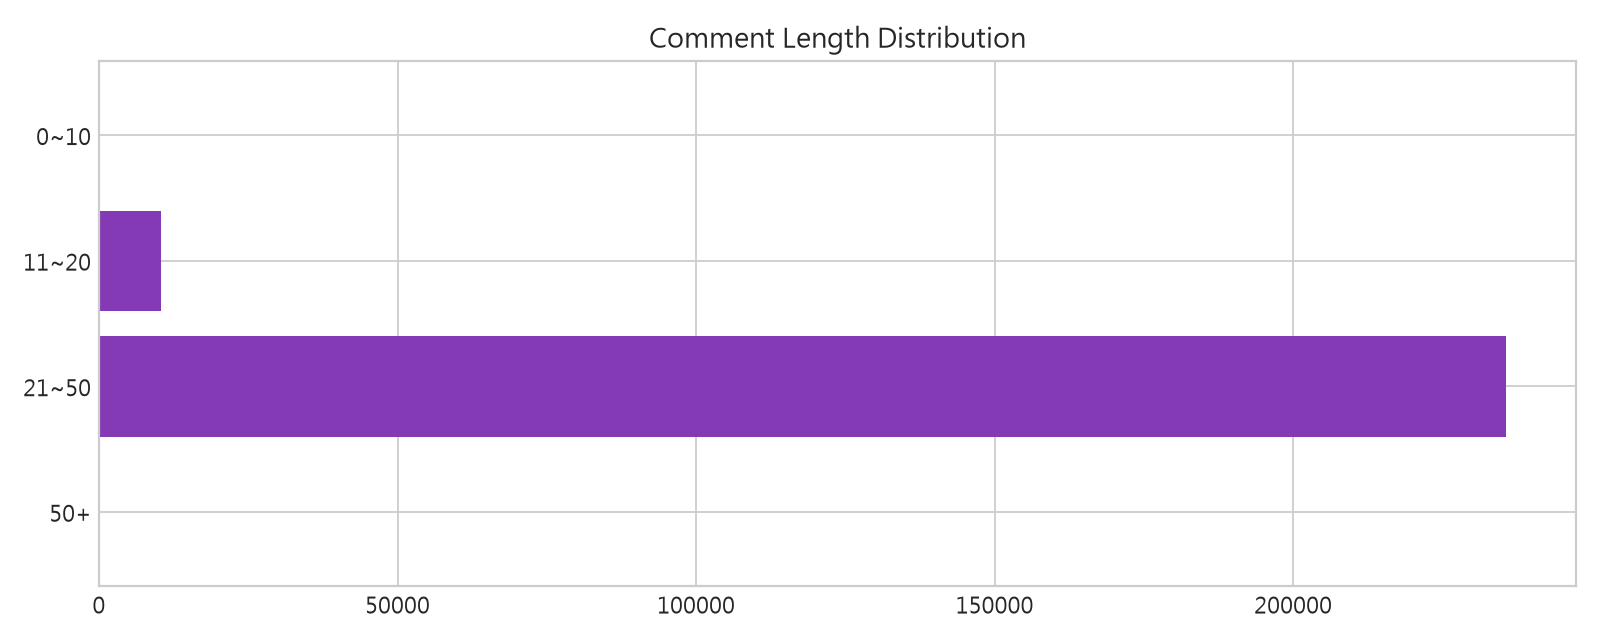
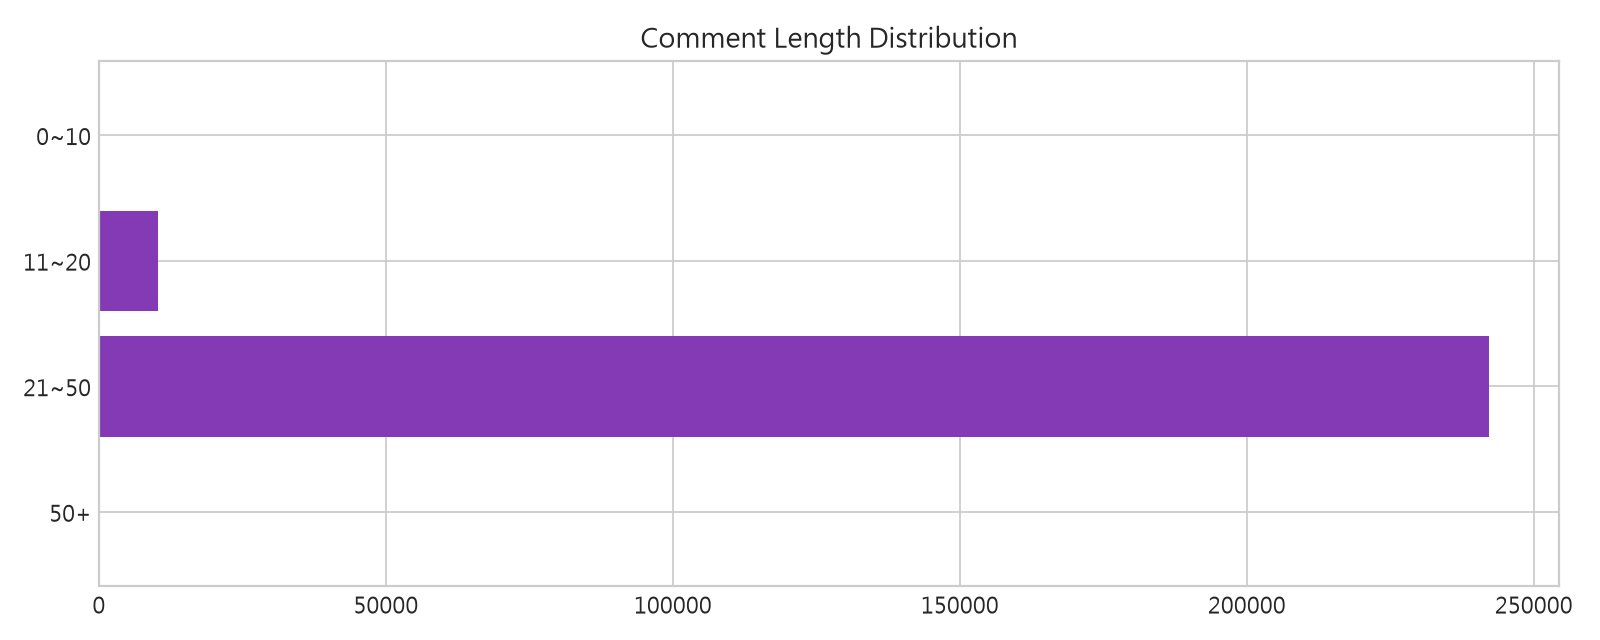
Refresh Pages report with comments through 2026-07-29 20:00.

diff --git a/docs/index.html b/docs/index.html
@@ -11,11 +11,11 @@
 <main class="container pb-5">
  <h2 class="h4 mb-3">基本統計</h2><div class="row g-3 mb-4">
  
- <div class="col-6 col-lg-3"><div class="card p-3"><small class="text-muted">總留言數</small><strong class="fs-3">246231</strong></div></div>
- <div class="col-6 col-lg-3"><div class="card p-3"><small class="text-muted">唯一留言者</small><strong class="fs-3">1351</strong></div></div>
- <div class="col-6 col-lg-3"><div class="card p-3"><small class="text-muted">平均留言長度</small><strong class="fs-3">25.48</strong></div></div>
- <div class="col-6 col-lg-3"><div class="card p-3"><small class="text-muted">應援留言數</small><strong class="fs-3">246494</strong></div></div>
- </div><p>留言最多的人：<strong>hsinhuachung</strong>｜應援隊伍數：<strong>97</strong></p>
+ <div class="col-6 col-lg-3"><div class="card p-3"><small class="text-muted">總留言數</small><strong class="fs-3">252877</strong></div></div>
+ <div class="col-6 col-lg-3"><div class="card p-3"><small class="text-muted">唯一留言者</small><strong class="fs-3">1353</strong></div></div>
+ <div class="col-6 col-lg-3"><div class="card p-3"><small class="text-muted">平均留言長度</small><strong class="fs-3">25.49</strong></div></div>
+ <div class="col-6 col-lg-3"><div class="card p-3"><small class="text-muted">應援留言數</small><strong class="fs-3">253139</strong></div></div>
+ </div><p>留言最多的人：<strong>hsinhuachung</strong>｜應援隊伍數：<strong>98</strong></p>
 
  <div class="row g-4 mb-4">
   <div class="col-12 col-lg-6"><div class="card p-3"><h2 class="h5">應援隊伍排行</h2><img class="chart" src="assets/team_votes.png" alt="應援隊伍排行"></div></div>
@@ -23,8 +23,8 @@
  </div>
 
  <div class="row g-4 mb-4">
-  <div class="col-12 col-lg-6"><div class="card p-3"><h2 class="h5">Top 20 應援隊伍</h2><table class="table"><thead><tr><th>隊伍</th><th>票數</th></tr></thead><tbody><tr><td>YVIE GIRLS</td><td>148816</td></tr><tr><td>北一街舞貳拾肆屆</td><td>46238</td></tr><tr><td>SYKIDZ JN</td><td>20098</td></tr><tr><td>美少女戰士</td><td>8352</td></tr><tr><td>BUBBLE GUN</td><td>5110</td></tr><tr><td>MIXCIN ZAZA</td><td>4680</td></tr><tr><td>THE MIXCIN</td><td>2392</td></tr><tr><td>HKG</td><td>1731</td></tr><tr><td>MIXCIN PASSION</td><td>1633</td></tr><tr><td>MOOSE</td><td>1486</td></tr><tr><td>SYKIDZ REI</td><td>1247</td></tr><tr><td>CRAZY WEDNESDAY</td><td>783</td></tr><tr><td>MIXCIN NOVA</td><td>456</td></tr><tr><td>RAIN CITY KIDZ</td><td>432</td></tr><tr><td>MIXCIN BOSSY</td><td>327</td></tr><tr><td>MINI DSDJ</td><td>276</td></tr><tr><td>北一鎖舞第十七屆</td><td>236</td></tr><tr><td>MIXCIN NOVA加油</td><td>227</td></tr><tr><td>北一 街舞貳拾肆屆</td><td>193</td></tr><tr><td>北ㄧ街舞貳拾肆屆</td><td>177</td></tr></tbody></table></div></div>
-  <div class="col-12 col-lg-6"><div class="card p-3"><h2 class="h5">Top 20 留言者</h2><table class="table"><tbody><tr><td>hsinhuachung</td><td>23577</td></tr><tr><td>chenchenlinger</td><td>22495</td></tr><tr><td>fu.rino</td><td>21696</td></tr><tr><td>y.v_amy</td><td>21125</td></tr><tr><td>red_winnie</td><td>10061</td></tr><tr><td>cardanfor</td><td>9879</td></tr><tr><td>06.angle_</td><td>9833</td></tr><tr><td>jone4289</td><td>7134</td></tr><tr><td>y.v_effy</td><td>6579</td></tr><tr><td>luvqi57</td><td>6332</td></tr><tr><td>yachun62</td><td>6201</td></tr><tr><td>visa_4289</td><td>5788</td></tr><tr><td>cwh224</td><td>4676</td></tr><tr><td>y.v_alicialee</td><td>4049</td></tr><tr><td>yyachuan</td><td>3272</td></tr><tr><td>w._.yiyj</td><td>2893</td></tr><tr><td>abrokenhouse701</td><td>2231</td></tr><tr><td>y.v_fifi</td><td>2166</td></tr><tr><td>y.v_mina</td><td>1836</td></tr><tr><td>c.christallo</td><td>1711</td></tr></tbody></table></div></div>
+  <div class="col-12 col-lg-6"><div class="card p-3"><h2 class="h5">Top 20 應援隊伍</h2><table class="table"><thead><tr><th>隊伍</th><th>票數</th></tr></thead><tbody><tr><td>YVIE GIRLS</td><td>152598</td></tr><tr><td>北一街舞貳拾肆屆</td><td>46391</td></tr><tr><td>SYKIDZ JN</td><td>22043</td></tr><tr><td>美少女戰士</td><td>8352</td></tr><tr><td>BUBBLE GUN</td><td>5110</td></tr><tr><td>MIXCIN ZAZA</td><td>4680</td></tr><tr><td>THE MIXCIN</td><td>2392</td></tr><tr><td>HKG</td><td>1731</td></tr><tr><td>MIXCIN PASSION</td><td>1633</td></tr><tr><td>MOOSE</td><td>1486</td></tr><tr><td>SYKIDZ REI</td><td>1247</td></tr><tr><td>CRAZY WEDNESDAY</td><td>783</td></tr><tr><td>YVIE GIRL</td><td>738</td></tr><tr><td>MIXCIN NOVA</td><td>456</td></tr><tr><td>RAIN CITY KIDZ</td><td>432</td></tr><tr><td>MIXCIN BOSSY</td><td>327</td></tr><tr><td>MINI DSDJ</td><td>276</td></tr><tr><td>北一鎖舞第十七屆</td><td>236</td></tr><tr><td>MIXCIN NOVA加油</td><td>227</td></tr><tr><td>北一 街舞貳拾肆屆</td><td>193</td></tr></tbody></table></div></div>
+  <div class="col-12 col-lg-6"><div class="card p-3"><h2 class="h5">Top 20 留言者</h2><table class="table"><tbody><tr><td>hsinhuachung</td><td>23577</td></tr><tr><td>chenchenlinger</td><td>23470</td></tr><tr><td>fu.rino</td><td>22818</td></tr><tr><td>y.v_amy</td><td>21125</td></tr><tr><td>red_winnie</td><td>11481</td></tr><tr><td>cardanfor</td><td>9957</td></tr><tr><td>06.angle_</td><td>9833</td></tr><tr><td>jone4289</td><td>7407</td></tr><tr><td>y.v_effy</td><td>6697</td></tr><tr><td>yachun62</td><td>6394</td></tr><tr><td>luvqi57</td><td>6332</td></tr><tr><td>visa_4289</td><td>6027</td></tr><tr><td>cwh224</td><td>4676</td></tr><tr><td>y.v_alicialee</td><td>4080</td></tr><tr><td>yyachuan</td><td>3272</td></tr><tr><td>w._.yiyj</td><td>2893</td></tr><tr><td>y.v_nina</td><td>2284</td></tr><tr><td>abrokenhouse701</td><td>2231</td></tr><tr><td>y.v_fifi</td><td>2166</td></tr><tr><td>y.v_mina</td><td>1836</td></tr></tbody></table></div></div>
  </div>
 
  <div class="row g-4 mb-4">
@@ -42,6 +42,6 @@
  </div>
 
  <div class="row g-4">
-  <div class="col-12"><div class="card p-3"><h2 class="h5">重複留言（前 20 筆）</h2><table class="table"><thead><tr><th>類型</th><th>留言</th><th>說明</th><th>相似度</th></tr></thead><tbody><tr><td>exact</td><td>2026新北國際街舞大賽 我挺YVIE GIRLS!</td><td>chenchenlinger×22473, y.v_amy×21083, hsinhuachung×13433, y.v_alicialee×3647, fu.rino×2062</td><td>1.0</td></tr><tr><td>exact</td><td>2026新北國際街舞大賽 我挺YVIE GIRLS！</td><td>hsinhuachung×7201, jone4289×7105, y.v_effy×6519, yachun62×6163, yyachuan×2169</td><td>1.0</td></tr><tr><td>exact</td><td>2026新北國際街舞大賽，我挺SYKIDZ REI ❤</td><td>feishan33__×4</td><td>1.0</td></tr><tr><td>exact</td><td>2026新北國際街舞大賽 我挺北一街舞貳拾肆屆！</td><td>06.angle_×9760, luvqi57×6302, abrokenhouse701×2205, theyreeeeeasshole×1558, tongjing.chen×1504</td><td>1.0</td></tr><tr><td>exact</td><td>2026新北國際街舞大賽 我挺北一街舞貳拾肆屆！2026新北國際街舞大賽 我挺北一街舞貳拾肆屆！</td><td>73zs._×37, 06.angle_×32, meow_meow_meow_iii×23, mayaheymayahomayahannie×22, hardto.choose×15</td><td>1.0</td></tr><tr><td>exact</td><td>2026新北國際街舞大賽 我挺北一街舞貳拾肆屆���</td><td>06.angle_×3</td><td>1.0</td></tr><tr><td>exact</td><td>2026新北國際街舞大賽 我挺SYKIDZ JN</td><td>red_winnie×7958, zaq._.1212×290, lr._.02_23×195, sa._.0212_×151, _12nnnnn_×124</td><td>1.0</td></tr><tr><td>exact</td><td>2026新北國際街舞大賽 我挺YVIE GIRLS</td><td>cardanfor×9856, y.v_fifi×1944, hsinhuachung×1657, yuan_kai_tsai×78, y.v_alicialee×56</td><td>1.0</td></tr><tr><td>exact</td><td>2026新北國際街舞大賽 我挺SYKIDZ JN!</td><td>_1cnn.cky×573, luo_zin_ing×325, 77zzzzzz__×193, yyc_.51×160, mimmy.syk×114</td><td>1.0</td></tr><tr><td>exact</td><td>2026新北國際街舞大賽 我挺SYKIDZ REI!</td><td>o.627._.yo×3</td><td>1.0</td></tr><tr><td>exact</td><td>2026新北國際街舞大賽 我挺SYKIDZ REI</td><td>_im.ys2×267, shiao_423×184, _7kzzc×123, celia__xin×77, oogeshon×75</td><td>1.0</td></tr><tr><td>exact</td><td>2026新北國際街舞大賽 我挺YVIE GIRLS! 2026新北國際街舞大賽 我挺YVIE GIRLS!</td><td>hsinhuachung×40</td><td>1.0</td></tr><tr><td>exact</td><td>2026新北國際街舞大賽我挺MIXCIN ZAZA🐆🔱</td><td>candicekang83×248, 09._hanhan×92, 09._.sihan×88, _xin.0604×46, 0824eva_15y×31</td><td>1.0</td></tr><tr><td>exact</td><td>2026新北國際街舞大賽我挺MIXCIN ZAZA🐆</td><td>glitch_06_13×913, hsu_.1129×26, smal.l_jus×21, yshinun×16, cutie.yu_2222×5</td><td>1.0</td></tr><tr><td>exact</td><td>2026 新北國際街舞大賽 我挺 MIXCIN ZAZA❤🔥</td><td>clds._.4683×137</td><td>1.0</td></tr><tr><td>exact</td><td>2026新北國際街舞大賽 我挺 必比登六星⭐</td><td>lynnkang46×20</td><td>1.0</td></tr><tr><td>exact</td><td>2026 新北國際街舞大賽 我挺 MIXCIN ZAZA</td><td>clds._.4683×7</td><td>1.0</td></tr><tr><td>exact</td><td>2026新北國際街舞大賽 我挺THE MIXCIN!!</td><td>tanya_and_cindy_mom×329, chloe0311_×35</td><td>1.0</td></tr><tr><td>exact</td><td>2026 新北國際街舞大賽 我挺 必比登六星🌟</td><td>papa.0401×23, clds._.4683×10, lynnkang46×2</td><td>1.0</td></tr><tr><td>exact</td><td>2026 新北國際街舞大賽 我挺 MIXCIN ZAZA😍🐆</td><td>papa.0401×59</td><td>1.0</td></tr></tbody></table></div></div>
+  <div class="col-12"><div class="card p-3"><h2 class="h5">重複留言（前 20 筆）</h2><table class="table"><thead><tr><th>類型</th><th>留言</th><th>說明</th><th>相似度</th></tr></thead><tbody><tr><td>exact</td><td>2026新北國際街舞大賽 我挺YVIE GIRLS!</td><td>chenchenlinger×23448, y.v_amy×21083, hsinhuachung×13433, y.v_alicialee×3678, fu.rino×2062</td><td>1.0</td></tr><tr><td>exact</td><td>2026新北國際街舞大賽 我挺YVIE GIRLS！</td><td>jone4289×7378, hsinhuachung×7201, y.v_effy×6637, yachun62×6356, yyachuan×2169</td><td>1.0</td></tr><tr><td>exact</td><td>2026新北國際街舞大賽，我挺SYKIDZ REI ❤</td><td>feishan33__×4</td><td>1.0</td></tr><tr><td>exact</td><td>2026新北國際街舞大賽 我挺北一街舞貳拾肆屆！</td><td>06.angle_×9760, luvqi57×6302, abrokenhouse701×2205, theyreeeeeasshole×1558, tongjing.chen×1504</td><td>1.0</td></tr><tr><td>exact</td><td>2026新北國際街舞大賽 我挺北一街舞貳拾肆屆！2026新北國際街舞大賽 我挺北一街舞貳拾肆屆！</td><td>73zs._×37, 06.angle_×32, meow_meow_meow_iii×23, mayaheymayahomayahannie×22, hardto.choose×15</td><td>1.0</td></tr><tr><td>exact</td><td>2026新北國際街舞大賽 我挺北一街舞貳拾肆屆���</td><td>06.angle_×3</td><td>1.0</td></tr><tr><td>exact</td><td>2026新北國際街舞大賽 我挺SYKIDZ JN</td><td>red_winnie×9370, love22251148×402, zaq._.1212×290, lr._.02_23×208, sa._.0212_×152</td><td>1.0</td></tr><tr><td>exact</td><td>2026新北國際街舞大賽 我挺YVIE GIRLS</td><td>cardanfor×9934, y.v_fifi×1944, hsinhuachung×1657, yuan_kai_tsai×78, y.v_alicialee×56</td><td>1.0</td></tr><tr><td>exact</td><td>2026新北國際街舞大賽 我挺SYKIDZ JN!</td><td>_1cnn.cky×573, luo_zin_ing×325, 77zzzzzz__×193, yyc_.51×160, mimmy.syk×114</td><td>1.0</td></tr><tr><td>exact</td><td>2026新北國際街舞大賽 我挺SYKIDZ REI!</td><td>o.627._.yo×3</td><td>1.0</td></tr><tr><td>exact</td><td>2026新北國際街舞大賽 我挺SYKIDZ REI</td><td>_im.ys2×267, shiao_423×184, _7kzzc×123, celia__xin×77, oogeshon×75</td><td>1.0</td></tr><tr><td>exact</td><td>2026新北國際街舞大賽 我挺YVIE GIRLS! 2026新北國際街舞大賽 我挺YVIE GIRLS!</td><td>hsinhuachung×40</td><td>1.0</td></tr><tr><td>exact</td><td>2026新北國際街舞大賽我挺MIXCIN ZAZA🐆🔱</td><td>candicekang83×248, 09._hanhan×92, 09._.sihan×88, _xin.0604×46, 0824eva_15y×31</td><td>1.0</td></tr><tr><td>exact</td><td>2026新北國際街舞大賽我挺MIXCIN ZAZA🐆</td><td>glitch_06_13×913, hsu_.1129×26, smal.l_jus×21, yshinun×16, cutie.yu_2222×5</td><td>1.0</td></tr><tr><td>exact</td><td>2026 新北國際街舞大賽 我挺 MIXCIN ZAZA❤🔥</td><td>clds._.4683×137</td><td>1.0</td></tr><tr><td>exact</td><td>2026新北國際街舞大賽 我挺 必比登六星⭐</td><td>lynnkang46×20</td><td>1.0</td></tr><tr><td>exact</td><td>2026 新北國際街舞大賽 我挺 MIXCIN ZAZA</td><td>clds._.4683×7</td><td>1.0</td></tr><tr><td>exact</td><td>2026新北國際街舞大賽 我挺THE MIXCIN!!</td><td>tanya_and_cindy_mom×329, chloe0311_×35</td><td>1.0</td></tr><tr><td>exact</td><td>2026 新北國際街舞大賽 我挺 必比登六星🌟</td><td>papa.0401×23, clds._.4683×10, lynnkang46×2</td><td>1.0</td></tr><tr><td>exact</td><td>2026 新北國際街舞大賽 我挺 MIXCIN ZAZA😍🐆</td><td>papa.0401×59</td><td>1.0</td></tr></tbody></table></div></div>
  </div>
 </main></body></html>
